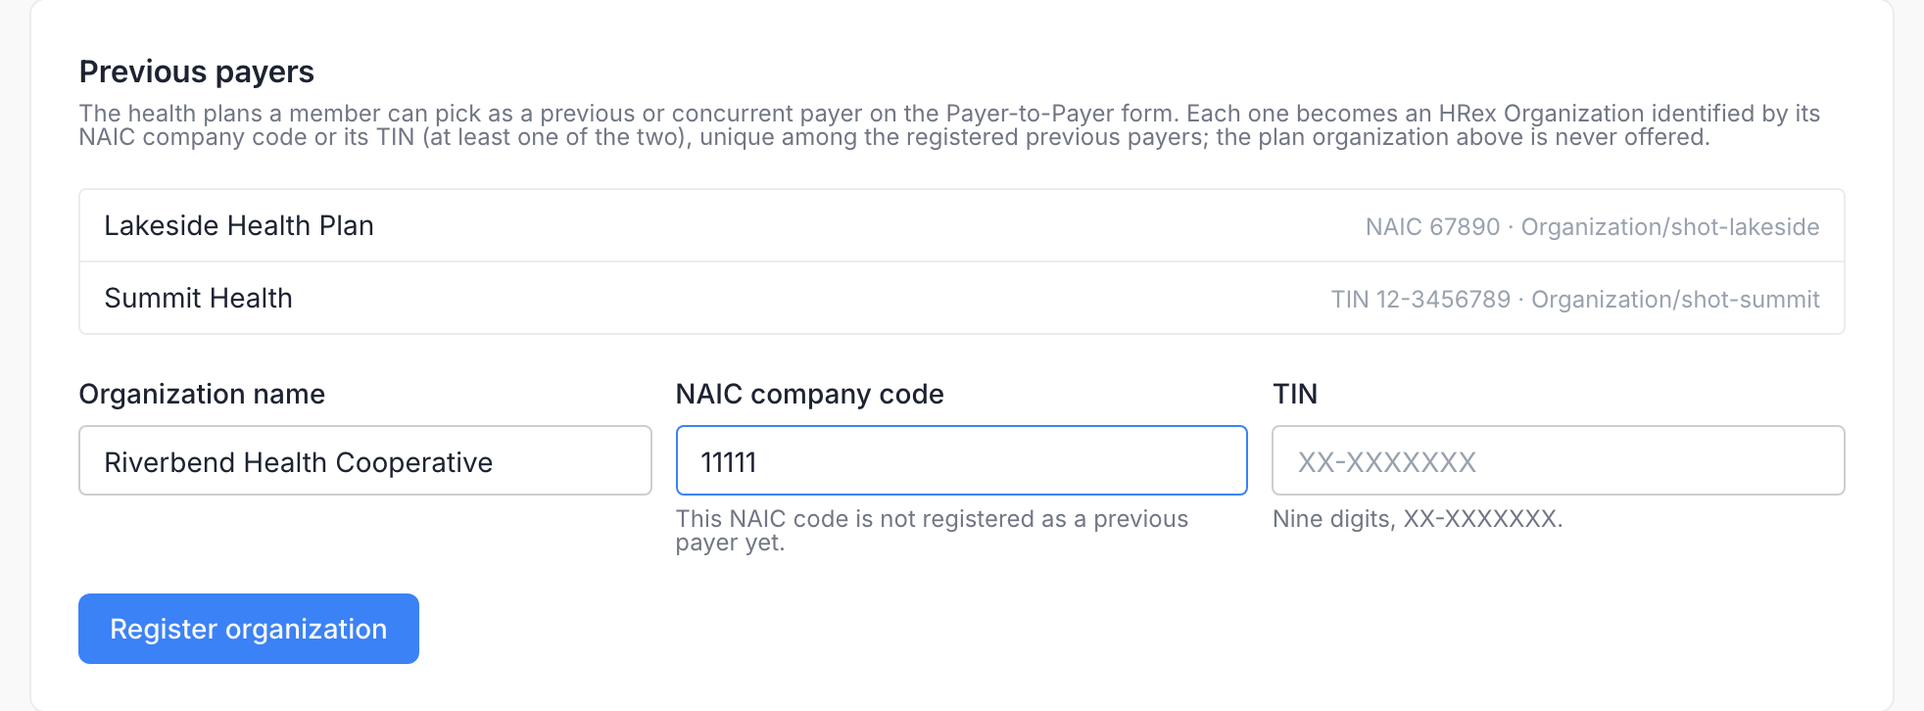
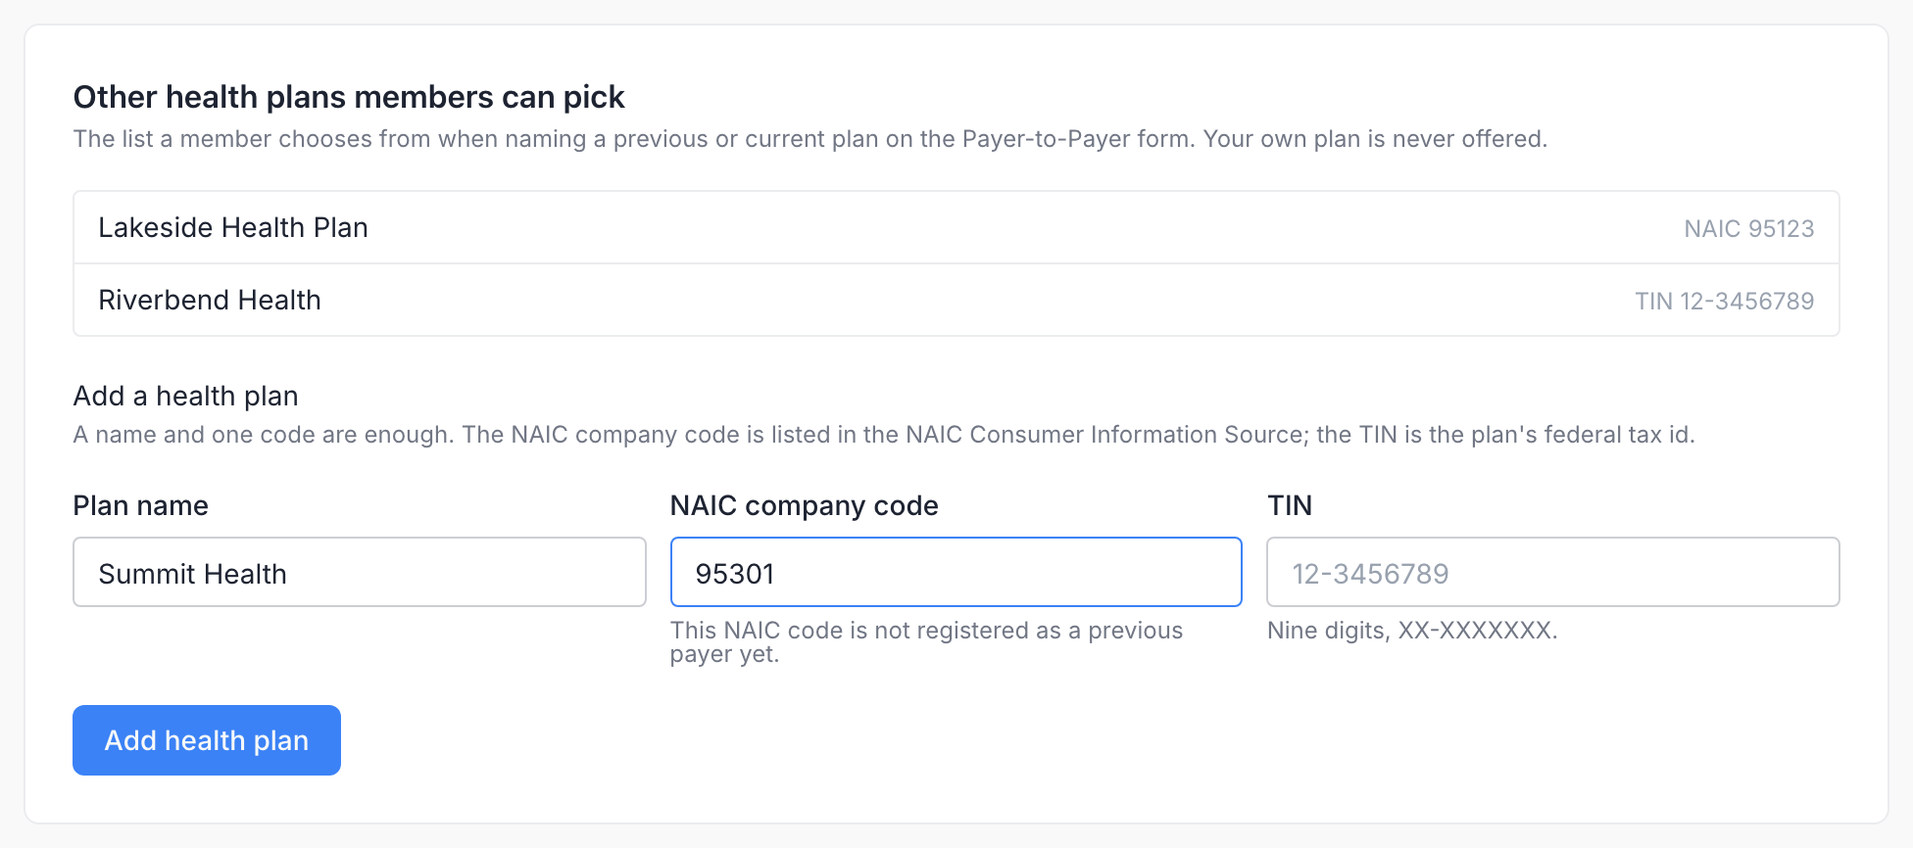
[HealthSamurai/smartbox#917] consent settings: the rebuilt Settings → Consent tab
Consent Settings rewritten for the page as PR smartbox#945 rebuilds it,
for the plan's administrator: one "Member data sharing" card with the
three settings ("Your health plan" shown by name with Change, "Permission
lasts until", "Let members exclude sensitive records") and its own Save,
always enabled; a press with something missing lists the problems above
the button, a press with nothing changed says "Nothing changed"; the
status note names what keeps members from saving and shows only then.

New: "Add your plan" — when the picker finds nothing it offers to create
the plan's Organization from a name plus a NAIC company code or a TIN and
sets it as the plan in one step; one plan, one record: a code an
Organization already carries creates nothing, names that record and
offers "Use <name> as your plan". The second card is "Other health plans
members can pick" (name and codes per row, the add form with its hints,
plans added before codes shown as "NPI …, no NAIC code or TIN on file").
Capture mode and representatives moved to "How the deployment is set
up", the collapsed note at the bottom of the tab. Audit: adding your plan
writes Settings Updated too.

Anchors repointed on Consent Panel, Consent Reviews and the Member Portal
README (#how-the-deployment-is-set-up, #other-health-plans-members-can-pick).

Screenshots from the rebuilt page: admin-consent-settings-v3 and
admin-previous-payers-register-v2 replaced (never published), plus the
[…]

diff --git a/docs/fhir-app-portal/consent-settings.md b/docs/fhir-app-portal/consent-settings.md
@@ -1,63 +1,85 @@
 ---
 description: >-
   Configure the member Consent Panel from the Admin Portal's Settings →
-  Consent tab: the plan organization, how long a Payer-to-Payer authorization lasts,
-  the non-sensitive option, and the registry of previous payers.
+  Consent tab: your health plan, how long a Payer-to-Payer permission lasts,
+  the sensitive-records option, and the other health plans members can pick.
 ---
 
 # Consent Settings
 
-The **Settings → Consent** tab of the Admin Portal sets what the member portal's [Data sharing page](member-portal/consent-panel.md) writes into every consent and which health plans members can name for Payer-to-Payer exchange.
+The **Settings → Consent** tab of the Admin Portal sets what the member portal's [Data sharing page](member-portal/consent-panel.md) needs from your plan before a member can record a choice, and which health plans members can name for Payer-to-Payer exchange.
 
-Open **Settings → Consent** (`/dashboard/settings/consent`). The tab is shown only on deployments that enable the Consent Panel.
+Open **Settings → Consent** (`/dashboard/settings/consent`). The tab is shown only on deployments that enable the Consent Panel. It is written for the plan's administrator: plans are shown by name, and no record ids, profile names or deployment variables appear on it.
 
-![Settings → Consent: the capture mode, whether authorized representatives are offered, the plan organization resolved to Example Health Plan, the Payer-to-Payer end date, the non-sensitive option, and Save](../../assets/fhir-app-portal/consent/admin-consent-settings-v3.png)
+![Settings → Consent, the Member data sharing card: Your health plan set to Example Health Plan with Change, Permission lasts until December 31, 2027, Let members exclude sensitive records ticked, and Save with No changes yet](../../assets/fhir-app-portal/consent/admin-consent-settings-v3.png)
 
-## Capture mode
+## Member data sharing
 
-The first card shows the deployment's capture mode. It is part of the deployment, not a setting on this page:
+The first card holds the three settings and its own **Save** button.
+
+| Setting | What to enter |
+|---|---|
+| **Your health plan** | The `Organization` record that stands for your plan. Every choice a member records names it as the plan that holds the record (`Consent.organization`, the disclosing or receiving payer, and the custodian of the consent document). A set plan is shown by name with **Change**; the picker lists plans by name as you type, and *Your plan: <name>* confirms the pick. The record must declare the HRex Organization profile without a version (`http://hl7.org/fhir/us/davinci-hrex/StructureDefinition/hrex-organization` in `meta.profile`); otherwise members' saves are refused. |
+| **Permission lasts until** | The date every new Payer-to-Payer permission ends. HRex requires an end date on the opt-in: the member sees it on the form before saving, and the record carries it as `provision.period.end`. It cannot be in the past. A change applies to permissions given afterwards; ones already on file keep their date. |
+| **Let members exclude sensitive records** | Whether the form offers *Only non-sensitive information*. Until sensitive data is labeled, a member who picks it is returned to other plans as consent-constrained and no records come across; the form warns the member before they save. |
+
+**Save** is always enabled. A press with something missing lists the problems above the button instead of saving, for example *Set the date the Payer-to-Payer permission lasts until.*, *The end date has passed. Set a date in the future.* or *The health plan was not found. Pick it from the list.*; a press with nothing changed says *Nothing changed*; a save confirms with *Settings saved*. The settings are stored on the admin Aidbox and read by the next save on the member page; no restart is needed.
+
+![The Member data sharing card after a press of Save with the date cleared: a yellow list above the button reads Set the date the Payer-to-Payer permission lasts until](../../assets/fhir-app-portal/consent/admin-consent-settings-problems.png)
+
+Members can save choices only while the settings are complete: the plan is set and exists, and the end date is set and has not passed. While they are not, a yellow note at the top of the card says what is missing, for example *Members cannot record choices yet: pick your health plan; set the date the Payer-to-Payer permission lasts until.* or *… the Payer-to-Payer end date 2026-01-01 has passed, set a new one.*, and the member page shows the choices on file but an opened form says the change cannot be made online yet. The note disappears once all three are in order.
+
+### Add your plan
+
+The plan's Organization usually arrives with the plan's data. When it does not, the picker finds nothing and offers to create it:
+
+![The plan picker with Anytown Health typed: No health plan is named like this, and a button Add “Anytown Health” as your plan](../../assets/fhir-app-portal/consent/admin-consent-plan-not-found.png)
+
+**Add “<name>” as your plan** (or **Add your plan** under the picker) opens a form for the **Plan name** and at least one of the two codes, the **NAIC company code** (five digits, as listed in the NAIC Consumer Information Source) or the **TIN** (the plan's federal tax id, nine digits, `XX-XXXXXXX`; the hyphen may be left out). Health plans have no NPI: it identifies providers.
+
+![The Add your plan form: Plan name Anytown Health Plan, NAIC company code 95202, TIN empty, and the buttons Add and use this plan and Cancel](../../assets/fhir-app-portal/consent/admin-consent-plan-add.png)
+
+**Add and use this plan** creates the `Organization` (HRex Organization profile, typed as a payer, the codes as its identifiers) and sets it as your plan in the same step; the date and the sensitive-records option stay as they were. The new plan is never offered to members on the Payer-to-Payer form. A press with something missing lists it above the button, for example *Enter the NAIC code or the TIN. One is enough.*
+
+One plan, one record: if an `Organization` already carries the code — loaded by a data feed under another name, say — nothing is created. The form names it, *NAIC code 95202 belongs to Anytown Health Plans Inc. Nothing was created: use that plan instead.*, and offers **Use <name> as your plan**, which picks it; **Save** then stores it. If the record is one of the other health plans members can pick, the form says so and offers nothing: a plan cannot be both.
+
+## Other health plans members can pick
+
+The second card holds the health plans a member can pick as a previous or concurrent plan on the Payer-to-Payer form. Members never type a plan's name freely; they pick from this list, and your own plan is never offered. Each row shows the plan's name and its codes.
+
+![The Other health plans members can pick card: Lakeside Health Plan with NAIC 95123, Riverbend Health with TIN 12-3456789, and under Add a health plan the name Summit Health with NAIC code 95301 and the hint that the code is not registered as a previous payer yet](../../assets/fhir-app-portal/consent/admin-previous-payers-register-v2.png)
+
+To add a plan, enter its **Plan name** and at least one of the **NAIC company code** or the **TIN**, wait for the hint under the code, and click **Add health plan**. The hints check each code as you type:
+
+| Hint | Meaning |
+|---|---|
+| *This NAIC code is not registered as a previous payer yet.* (or *This TIN …*) | Ready to add. |
+| *Already registered as <name>.* | Another plan in this list carries the code; the press lists it as a problem and nothing is created. |
+| *Not a valid NAIC code: five digits.* / *Not a valid TIN: nine digits, XX-XXXXXXX.* | The code fails the format test. |
+
+Each addition creates an `Organization` that declares the HRex Organization profile, is typed as a payer (`organization-type` `pay`), carries the NAIC code (`urn:oid:2.16.840.1.113883.6.300`) and/or the TIN (`urn:oid:2.16.840.1.113883.4.4`, stored as `XX-XXXXXXX`) as its identifiers, and is tagged as a plan members may pick. Each code is unique within this list only: an Organization loaded by a data feed for another purpose, or your own plan, does not block an addition with the same code. Plans added with an NPI before codes were introduced stay in the list and on the member's form, shown as *NPI …, no NAIC code or TIN on file*. The portal has no edit or delete action for the list.
+
+## How the deployment is set up
+
+A collapsed note at the bottom of the tab, **How this deployment is set up**, shows two facts that are part of the deployment, not settings on this page:
+
+![The note expanded: Capture mode read-write, members can change their choices online; Authorized representatives can act for a member, a choice that shares more waits for review](../../assets/fhir-app-portal/consent/admin-consent-deployment-note.png)
+
+**Capture mode**:
 
 | Mode | Members | Administrators |
 |---|---|---|
 | **read-write** | Record and change both choices on the Data sharing page. Where representatives are offered, a representative's choice that shares more waits for [review](consent-reviews.md). | This tab, and the **Data sharing** card on Member Details, with its reviews where representatives are offered. |
-| **read-only** | See the choices on file; the controls are disabled and the page points to Member Services. | This tab, and the **Data sharing** card on Member Details. |
+| **read-only** | See the choices on file; the page points to Member Services. | This tab without the Payer-to-Payer settings and the second card, and the **Data sharing** card on Member Details. |
 | off | No Data sharing page. | No Consent tab, no Data sharing card. |
 
 Changing the mode means changing the deployment: an operator adds or removes the member consent access policies shipped with the portal's Aidbox configuration. The portal notices the change within a minute.
 
-The same card says whether an **authorized representative** can act for a member: *can act for a member* or *not offered*. That is also part of the deployment: the portal's `MEMBER_CONSENT_REPRESENTATIVES_ENABLED=true` turns it on, and it is off otherwise. Turn it on only if your staff check the uploaded documents of authority in [Consent Reviews](consent-reviews.md). Review any pending choices before turning it off again: they can no longer be approved or rejected while it is off, and they never take effect.
-
-## Fields
-
-| Field | What to enter |
-|---|---|
-| **Plan organization (Aidbox Organization id)** | The `Organization` resource that stands for your plan. Type its id or name and pick it from the suggestions; the line below confirms *Resolves to: <name>*, or says *No Organization with this id was found.* Every consent references it as `Consent.organization` and as the disclosing or receiving payer, and every consent document names it as custodian. The Organization must declare the HRex Organization profile without a version (`http://hl7.org/fhir/us/davinci-hrex/StructureDefinition/hrex-organization` in `meta.profile`); otherwise members' saves are refused. |
-| **Payer-to-Payer authorization valid until** | The date every new Payer-to-Payer authorization ends. HRex requires an end date on the opt-in: the form shows it to the member before they save, and the record carries it as `provision.period.end`. It cannot be in the past. A change applies to authorizations saved afterwards; ones already on file keep their date. |
-| **Offer "non-sensitive information only" on the Payer-to-Payer form** | Whether members may authorize exchange of non-sensitive information only. As the tab notes, until sensitive data is labeled a member who picks it is returned to other payers as consent-constrained and no data moves; the member page warns the member before they save. |
-
-**Save** is enabled after a change and confirms with *Consent settings updated*. The settings are stored on the admin Aidbox and read by the next save on the member page; no restart is needed. Problems are shown as an error toast before anything is sent, for example *The end date must not be in the past.* or *The organization id may contain letters, digits, dashes, dots and underscores only.* An id that matches no Organization is refused by the server with `Organization/<id> not found`.
-
-Members can save choices only while the settings are complete: the plan organization is set and exists, and the end date is set and has not passed. Until an administrator saves them once, the tab warns *Not configured yet: members cannot save choices until the plan organization and the Payer-to-Payer end date are set.* Afterwards the warning names what is wrong, for example *Members cannot save choices: the Payer-to-Payer end date 2026-01-01 has passed.* or *… the plan organization acme-plan is not found.* While the warning shows, the member page shows the choices on file, and an opened form says the change cannot be made online yet.
-
-## Previous payers
-
-The **Previous payers** card holds the health plans a member can pick as a previous or concurrent payer on the Payer-to-Payer form. Members never type a plan's name freely; they pick from this list, and the plan organization above is never offered.
-
-![The Previous payers card: Lakeside Health Plan registered with its NAIC code, Summit Health with its TIN, and a third plan about to be registered, with the hint that its NAIC code is not registered yet](../../assets/fhir-app-portal/consent/admin-previous-payers-register-v2.png)
-
-To register a plan, enter its **Organization name** and at least one of its two codes, the **NAIC company code** (five digits) or the **TIN** (nine digits, `XX-XXXXXXX`; the hyphen may be left out), wait for the hint under the code, and click **Register organization**. Health plans have no NPI: it identifies providers. The hints check each code as you type:
-
-| Hint | Meaning |
-|---|---|
-| *This NAIC code is not registered as a previous payer yet.* (or *This TIN …*) | Ready to register. |
-| *Already registered as <name> (Organization/<id>). Nothing can be created with this NAIC code.* | Another registered previous payer carries this code; the button stays disabled. |
-| *Not a valid NAIC code: five digits.* / *Not a valid TIN: nine digits, XX-XXXXXXX.* | The code fails the format test. |
-
-Each registration creates an `Organization` that declares the HRex Organization profile, is typed as a payer (`organization-type` `pay`), carries the NAIC code (`urn:oid:2.16.840.1.113883.6.300`) and/or the TIN (`urn:oid:2.16.840.1.113883.4.4`, stored as `XX-XXXXXXX`) as its identifiers, and is tagged as a registered previous payer. Each code is unique among registered previous payers only: an Organization loaded by a data feed for another purpose, or the plan's own Organization, does not block a registration with the same code. Plans registered with an NPI before this release stay in the list and on the member's form. The portal has no edit or delete action for registered payers.
+**Authorized representatives**: *can act for a member* or *not offered*. That too is set when the portal is deployed, with `MEMBER_CONSENT_REPRESENTATIVES_ENABLED=true`; it is off otherwise. Turn it on only if your staff check the uploaded documents of authority in [Consent Reviews](consent-reviews.md). Review any pending choices before turning it off again: they can no longer be approved or rejected while it is off, and they never take effect.
 
 ## Audit
 
-Saving the settings writes a **Settings Updated** audit event, and each registration writes **Previous Payer Registered**. Both appear in the Admin Portal's **Audit Logs** with the administrator who made the change.
+Saving the settings, and adding your plan from the picker, write a **Settings Updated** audit event; each plan added to the second card writes **Previous Payer Registered**. All appear in the Admin Portal's **Audit Logs** with the administrator who made the change.
 
 ## Related
 

diff --git a/docs/fhir-app-portal/member-portal/consent-panel.md b/docs/fhir-app-portal/member-portal/consent-panel.md
@@ -12,7 +12,7 @@ Plan members record the two data-sharing choices of [CMS-0057-F](../../complianc
 - **Sharing with providers who treat you**: whether the plan shares the member's record with the in-network providers who treat them through [Provider Access](../../interop-apis/provider-access.md). Sharing is on unless the member opts out.
 - **Records from your other health plans**: whether the plan may request the member's records from their previous or concurrent health plans through [Payer-to-Payer](../../interop-apis/payer-to-payer.md). Nothing is requested unless the member gives permission.
 
-This page describes what members see and do there and what each choice records, so that administrators can configure the feature and support members. The plan's side is configured in [Consent Settings](../consent-settings.md), and choices made by an authorized representative are checked in [Consent Reviews](../consent-reviews.md). The page appears only where the deployment turns it on; see [Capture mode](../consent-settings.md#capture-mode).
+This page describes what members see and do there and what each choice records, so that administrators can configure the feature and support members. The plan's side is configured in [Consent Settings](../consent-settings.md), and choices made by an authorized representative are checked in [Consent Reviews](../consent-reviews.md). The page appears only where the deployment turns it on; see [Capture mode](../consent-settings.md#how-the-deployment-is-set-up).
 
 ![The Data sharing page with nothing on file: Sharing with providers who treat you, On, with Opt out; Records from your other health plans, Off, with Give permission](../../../assets/fhir-app-portal/consent/member-data-sharing-v2.png)
 
@@ -61,7 +61,7 @@ A member's own choice takes effect when it is saved, and the record it replaces 
 On the **Records from your other health plans** card the member clicks **Give permission**.
 {% endstep %}
 {% step %}
-Under **Which plan should we ask?** the member types the plan's name in **Health plan** and picks it from the list. Only plans registered in [Consent Settings](../consent-settings.md#previous-payers) appear. The member adds their **Member ID with that plan** (optional), answers **How were you covered under that plan?** (in their own name, through a spouse or partner, through a parent, another way) and **Do you still have that plan?** (no, they had it before; yes, they have it now too). **Add another plan** names more; **Remove** drops one.
+Under **Which plan should we ask?** the member types the plan's name in **Health plan** and picks it from the list. Only plans registered in [Consent Settings](../consent-settings.md#other-health-plans-members-can-pick) appear. The member adds their **Member ID with that plan** (optional), answers **How were you covered under that plan?** (in their own name, through a spouse or partner, through a parent, another way) and **Do you still have that plan?** (no, they had it before; yes, they have it now too). **Add another plan** names more; **Remove** drops one.
 {% endstep %}
 {% step %}
 Where the plan offers the non-sensitive option, the form then asks **What information do you give us permission to request from your other health plans?**: **All of my health information, including sensitive information.** or **Only non-sensitive information. Do not request my sensitive information.** **Which records count as sensitive** lists the kinds of care with extra protection. Without that option the form states that all information will be requested. The form shows the date the permission runs until.
@@ -130,7 +130,7 @@ After an administrator approves the representative's request above, the card rea
 
 ## Read-only and unconfigured deployments
 
-Where the plan records these choices through Member Services, the deployment runs in read-only [capture mode](../consent-settings.md#capture-mode): the page shows what is on file without the buttons, under the note *We record these choices by phone. This page shows what is on file. To change a choice, call Member Services.*
+Where the plan records these choices through Member Services, the deployment runs in read-only [capture mode](../consent-settings.md#how-the-deployment-is-set-up): the page shows what is on file without the buttons, under the note *We record these choices by phone. This page shows what is on file. To change a choice, call Member Services.*
 
 ![The Data sharing page on a read-only deployment: the note that choices are recorded by phone, and both cards with their state but no buttons](../../../assets/fhir-app-portal/consent/member-read-only-v2.png)
 

diff --git a/docs/fhir-app-portal/consent-reviews.md b/docs/fhir-app-portal/consent-reviews.md
@@ -9,7 +9,7 @@ description: >-
 
 When an authorized representative records a choice that shares more of a member's record (turning Provider Access sharing back on, or authorizing Payer-to-Payer exchange), the choice does not apply until a plan administrator has checked the representative's document of authority. Choices that share less apply at once; the plan checks their document afterwards. See [Authorized representatives](member-portal/consent-panel.md#authorized-representatives) for the member's side. Representatives, and with them reviews, are offered only where the portal runs with `MEMBER_CONSENT_REPRESENTATIVES_ENABLED=true`; elsewhere the card shows no **Pending review** section.
 
-Reviews happen on the member's page: **Members** → the member → **Data sharing** card. The card is shown on deployments that enable the Consent Panel, in both read-write and read-only [capture modes](consent-settings.md#capture-mode).
+Reviews happen on the member's page: **Members** → the member → **Data sharing** card. The card is shown on deployments that enable the Consent Panel, in both read-write and read-only [capture modes](consent-settings.md#how-the-deployment-is-set-up).
 
 ![The Data sharing card on Member Details: Provider Access Not sharing with Review pending, Payer-to-Payer Permission given, one pending review submitted by Sam Lee, son as power of attorney, and the history](../../assets/fhir-app-portal/consent/admin-data-sharing-card-v3.png)
 

diff --git a/docs/fhir-app-portal/member-portal/README.md b/docs/fhir-app-portal/member-portal/README.md
@@ -18,7 +18,7 @@ What administrators control:
 | Control | Where |
 |---|---|
 | Which apps the gallery lists: only apps approved in the Admin Portal | [Admin Portal](../admin-portal.md) |
-| Whether the **Data sharing** page appears, and whether members can change their choices there or only see them | [Capture mode](../consent-settings.md#capture-mode) |
+| Whether the **Data sharing** page appears, and whether members can change their choices there or only see them | [Capture mode](../consent-settings.md#how-the-deployment-is-set-up) |
 | The plan organization, the Payer-to-Payer end date, the non-sensitive option, and the previous payers members can name | [Consent Settings](../consent-settings.md) |
 | Whether an authorized representative can act for a member: `MEMBER_CONSENT_REPRESENTATIVES_ENABLED` on the portal | [Consent Panel](consent-panel.md#authorized-representatives) |
 | Approving or rejecting the choices representatives make | [Consent Reviews](../consent-reviews.md) |
